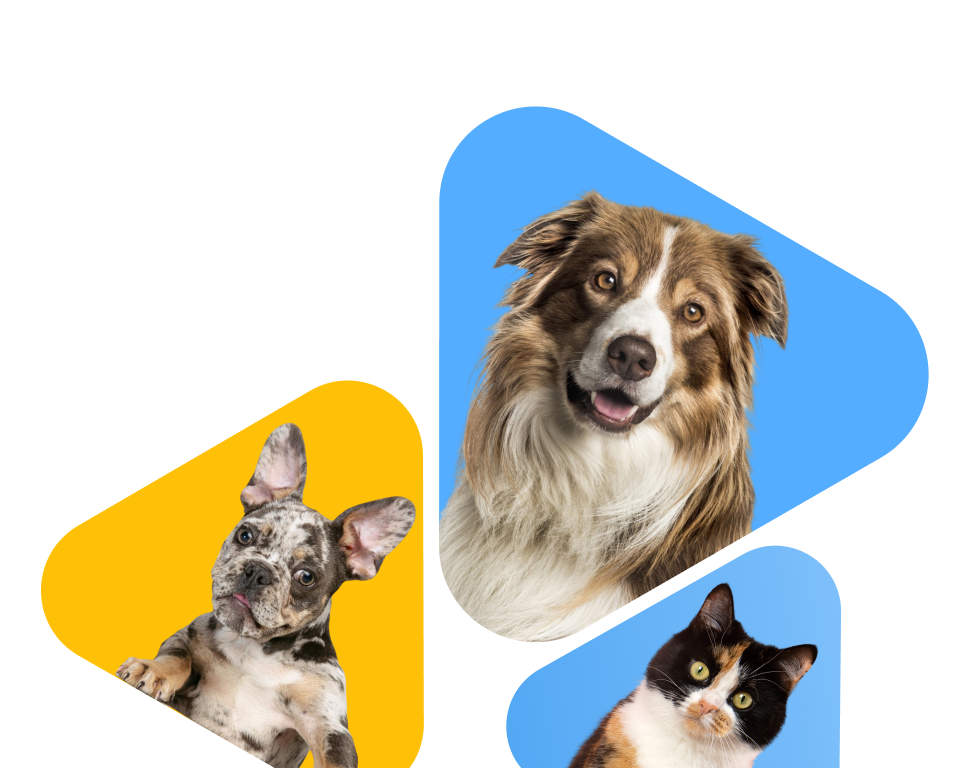
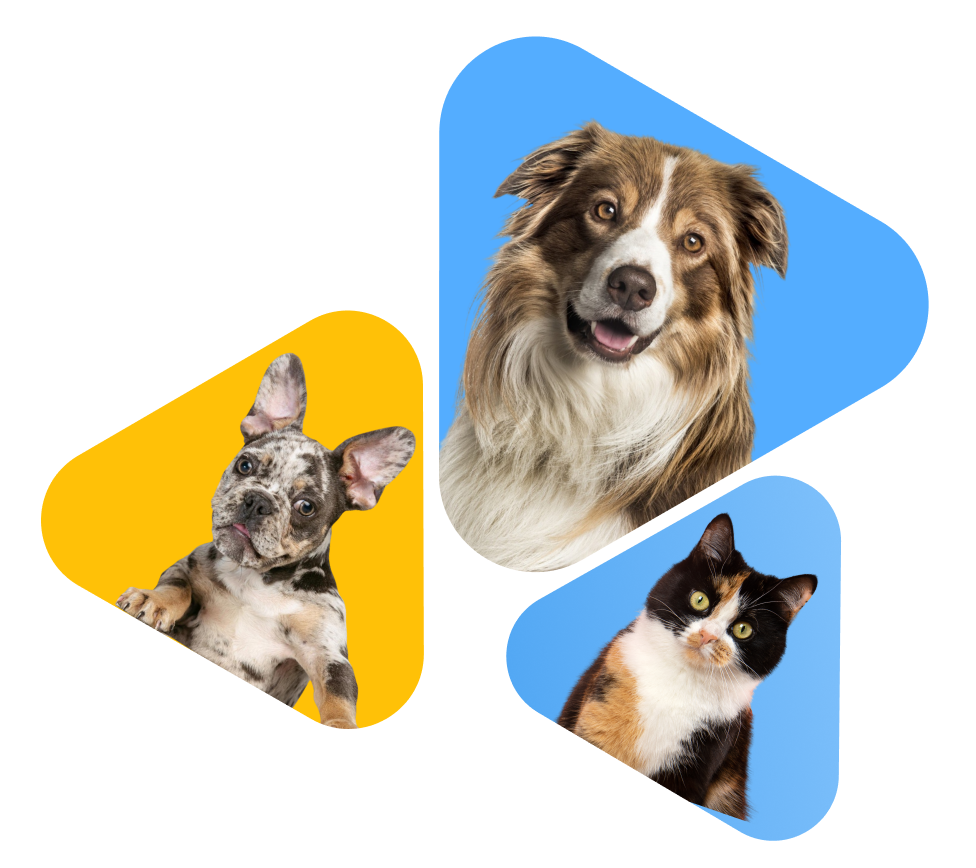
styles

diff --git a/src/pages/MainPage/MainPage.module.scss b/src/pages/MainPage/MainPage.module.scss
@@ -1,51 +1,65 @@
-.MainPage {
-  margin: 0;
-  height: calc(100vh - 74px);
-  overflow: hidden;
+.mainPage {
+  padding-left: 16px;
+  padding-right: 16px;
+  margin: 0 auto;
   background-image: url(../../assets/image/background/bg-mobile@1x.png),
-    url(../../assets/image/animal/animal-mobile@1x.png);
-  background-size: cover, cover;
+  url(../../assets/image/animal/animal-mobile@1x.png);
   background-repeat: no-repeat;
-  background-position: center top 0px, center top 150px;
-  overflow: hidden;
-  background-size: auto, auto;
-}
-.Title {
-  margin-left: 0px;
-  font-weight: 700;
-  padding-left: 20px;
-  font-size: 32px;
-  line-height: 1.37;
-}
-@media screen and (min-width: 768px) {
-  .MainPage {
-    margin-left: 0px;
+  background-position: center center, bottom center;
+  position: relative;
+
+  min-height: 600px;
+
+
+
+  @media screen and (min-width: 768px) and (max-width: 1279px) {
     background-image: url(../../assets/image/background/bg-tablet@1x.png),
-      url(../../assets/image/animal/animal-desktop@1x.png);
-    height: calc(100vh - 88px);
-    background-position: center top 2px, top 290px;
-    background-repeat: no-repeat, no-repeat;
+    url(../../assets/image/animal/animal-tablet@1x.png);
+    background-repeat: no-repeat;
+    background-position: center center, center 75%;
+    min-height: 1196px;
+    /* min-height: 100vh; */
   }
-  .Title {
-    font-size: 68px;
-    line-height: 1.47;
-    width: 588px;
-  }
-}
-@media screen and (min-width: 1280px) {
-  .MainPage {
-    width: auto;
-    height: calc(100vh - 88px);
+
+  @media screen and (min-width: 1280px) {
+    display: flex;
+    justify-content: flex-start;
+    align-items: center;
+    max-width: 1280px;
+    min-height: calc(100vh - 68px);
     background-image: url(../../assets/image/background/bg-desktop@1x.png),
-      url(../../assets/image/animal/animal-desktop@1x.png);
-    background-position: bottom, right top;
-    background-repeat: no-repeat, no-repeat;
-    background-size: contain;
+    url(../../assets/image/animal/animal-desktop@1x.png);
+    background-repeat: no-repeat;
+    background-position: center center, right -75%;
   }
-  .Title {
-    padding-top: 200px;
-    font-size: 68px;
-    line-height: 1.47;
-    width: 588px;
-  }
+
 }
+
+  .title {
+    font-style: normal;
+    font-weight: 700;
+    font-size: 32px;
+    line-height: calc(44/32);
+    padding-top: 60px;
+
+
+    @media screen and (min-width: 768px) and (max-width: 1279px) {
+      right: 0;
+      font-size: 68px;
+      line-height: calc(100/68);
+      max-width: 588px;
+      padding-top: 80px;
+      margin-left: 16px;
+
+    };
+    @media screen and (min-width: 1280px) {
+      /* position: absolute;
+      right: 58%; */
+      margin-top:0;
+      width: 501px;
+      font-style: normal;
+      font-weight: 800;
+      font-size: 68px;
+      line-height: calc(88/68);
+    };
+  }

diff --git a/src/modules/Navigation/Backdrop/Backdrop.jsx b/src/modules/Navigation/Backdrop/Backdrop.jsx
@@ -1,5 +1,5 @@
 import { React, useState, useEffect } from 'react';
-import css from './Backdrop.module.css';
+import scss from './Backdrop.module.scss';
 import { useSelector } from 'react-redux';
 import AuthNav from '../AuthNav/AuthNav';
 import Nav from '../Nav/Nav';
@@ -33,25 +33,25 @@ const BackdropMenu = ({ isOpen, handleClose }) => {
   return (
     <>
       {isOpen && (
-        <div className={css.backdrop}>
-          <div className={css.menu}>
-            <button className={css.btn} onClick={handleClose}>
-              <CrossSmallIcon id="svg" className={css.crossSmallIcon} />
+        <div className={scss.backdrop}>
+          <div className={scss.menu}>
+            <button className={scss.btn} onClick={handleClose}>
+              <CrossSmallIcon id="svg" className={scss.crossSmallIcon} />
             </button>
             <Logo handleLinkClick={handleLinkClick} />
 
             {isLogIn && !isTablet ? (
-              <div className={css.backdrop_user}>
+              <div className={scss.backdrop_user}>
                 <UserNav handleLinkClick={handleLinkClick} />
               </div>
             ) : null}
             {!isLogIn ? (
-              <div className={css.backdrop_auth}>
+              <div className={scss.backdrop_auth}>
                 <AuthNav handleLinkClick={handleLinkClick} />
               </div>
             ) : null}
 
-            <div className={css.backdrop_nav}>
+            <div className={scss.backdrop_nav}>
               <Nav handleLinkClick={handleLinkClick} />
             </div>
           </div>

diff --git a/src/modules/Navigation/Nav/Nav.jsx b/src/modules/Navigation/Nav/Nav.jsx
@@ -1,5 +1,5 @@
 import { NavLink } from 'react-router-dom';
-import css from './Nav.module.css';
+import scss from './Nav.module.scss';
 
 function Nav({ handleLinkClick }) {
   const handleClick = () => {
@@ -9,28 +9,28 @@ function Nav({ handleLinkClick }) {
   };
 
   return (
-    <ul className={css.nav}>
-      <li className={css.nav_item}>
+    <ul className={scss.nav}>
+      <li className={scss.nav_item}>
         <NavLink
-          className={({ isActive }) => (isActive ? css.active : '')}
+          className={({ isActive }) => (isActive ? scss.active : '')}
           to="/news"
           onClick={handleClick}
         >
           News
         </NavLink>
       </li>
-      <li className={css.nav_item}>
+      <li className={scss.nav_item}>
         <NavLink
-          className={({ isActive }) => (isActive ? css.active : '')}
+          className={({ isActive }) => (isActive ? scss.active : '')}
           to="/notices/sell"
           onClick={handleClick}
         >
           Notices
         </NavLink>
       </li>
-      <li className={css.nav_item}>
+      <li className={scss.nav_item}>
         <NavLink
-          className={({ isActive }) => (isActive ? css.active : '')}
+          className={({ isActive }) => (isActive ? scss.active : '')}
           to="/friends"
           onClick={handleClick}
         >

diff --git a/src/modules/Navigation/AuthNav/AuthNav.jsx b/src/modules/Navigation/AuthNav/AuthNav.jsx
@@ -1,6 +1,6 @@
 import React from 'react';
 import { Link } from 'react-router-dom';
-import css from './AuthNav.module.css';
+import scss from './AuthNav.module.scss';
 import { ReactComponent as Paw } from '../../../assets/image/icons/pawprint.svg';
 
 const isAuth = true;
@@ -14,13 +14,13 @@ function AuthNav({ handleLinkClick }) {
   return (
     <>
       {!isAuth ? null : (
-        <div className={css.auth}>
-          <Link to="/login" className={css.authButton} onClick={handleClick}>
-            <span className={css.auth_text}>Log IN</span>
-            <Paw className={css.svg} />
+        <div className={scss.auth}>
+          <Link to="/login" className={scss.authButton} onClick={handleClick}>
+            <span className={scss.auth_text}>Log IN</span>
+            <Paw className={scss.svg} />
           </Link>
-          <Link to="/register" className={css.authButton} onClick={handleClick}>
-            <span className={css.auth_text}>Registration</span>
+          <Link to="/register" className={scss.authButton} onClick={handleClick}>
+            <span className={scss.auth_text}>Registration</span>
           </Link>
         </div>
       )}

diff --git a/src/modules/Navigation/UserNav/UserNav.jsx b/src/modules/Navigation/UserNav/UserNav.jsx
@@ -1,7 +1,7 @@
 import { React, useEffect } from 'react';
 import { Link } from 'react-router-dom';
 import UserLogo from '../../../assets/image/icons/user.svg';
-import css from './UserNav.module.css';
+import scss from './UserNav.module.scss';
 import { useSelector } from 'react-redux';
 import { useState } from 'react';
 import { getCurrentUser } from '../../../redux/user/user-operations';
@@ -45,17 +45,17 @@ function UserNav({ handleLinkClick }) {
   };
 
   return (
-    <nav className={css.nav}>
+    <nav className={scss.nav}>
       <ul>
         <li>
           <Link to="/user" onClick={handleClick}>
-            <img className={css.icon} src={UserLogo} alt="UserLogo" />
+            <img className={scss.icon} src={UserLogo} alt="UserLogo" />
             {isMobile ? null : (
-              <span className={css.name}>
+              <span className={scss.name}>
                 {isLogIn ? splitResult() : 'User'}
               </span>
             )}
-            <span className={css.backdrop_name}>
+            <span className={scss.backdrop_name}>
               {isLogIn ? splitResult() : 'User'}
             </span>
           </Link>

diff --git a/src/modules/Navigation/Navigation.jsx b/src/modules/Navigation/Navigation.jsx
@@ -3,7 +3,7 @@ import Nav from './Nav/Nav';
 import UserNav from './UserNav/UserNav';
 import AuthNav from './AuthNav/AuthNav';
 import BurgerMenu from './Burger/Burger';
-import css from './Navigation.module.css';
+import scss from './Navigation.module.scss';
 import { useState, useEffect } from 'react';
 import { useSelector } from 'react-redux';
 
@@ -39,7 +39,7 @@ function Navigation() {
   return (
     <>
       {isMobile ? null : <Nav />}
-      <div className={css.btn_group}>
+      <div className={scss.btn_group}>
         {isLogIn ? <UserNav /> : null}
         {isTablet && !isLogIn ? <AuthNav /> : null}
         {isMobile ? <BurgerMenu /> : null}

diff --git a/src/modules/Navigation/Burger/Burger.jsx b/src/modules/Navigation/Burger/Burger.jsx
@@ -1,7 +1,7 @@
 import React from 'react';
 import { useState } from 'react';
 import BurgerSvg from '../../../assets/image/icons/menu-hamburger.svg';
-import css from './Burger.module.css';
+import scss from './Burger.module.scss';
 import BackdropMenu from '../Backdrop/Backdrop';
 
 function BurgerMenu() {
@@ -17,7 +17,7 @@ function BurgerMenu() {
 
   return (
     <>
-      <button className={css.burger} onClick={handleOpen}>
+      <button className={scss.burger} onClick={handleOpen}>
         <img src={BurgerSvg} alt="Menu" />
       </button>
       {isOpen ? (

diff --git a/src/pages/MainPage/MainPage.jsx b/src/pages/MainPage/MainPage.jsx
@@ -5,8 +5,8 @@ import styled from './MainPage.module.scss';
 function MainPage() {
   return (
     <>
-      <Container className={styled.MainPage}>
-        <h3 className={styled.Title}>
+      <Container className={styled.mainPage}>
+        <h3 className={styled.title}>
           Take good care of your small pets
         </h3>
       </Container>

diff --git a/src/modules/Navigation/Nav/Nav.module.scss b/src/modules/Navigation/Nav/Nav.module.scss
@@ -31,7 +31,7 @@ a.active {
 }
 
 .nav_item:not(:last-child) {
-  margin-right: 20px;
+  margin-right: 40px;
 }
 
 @media screen and (min-width: 1280px) {
